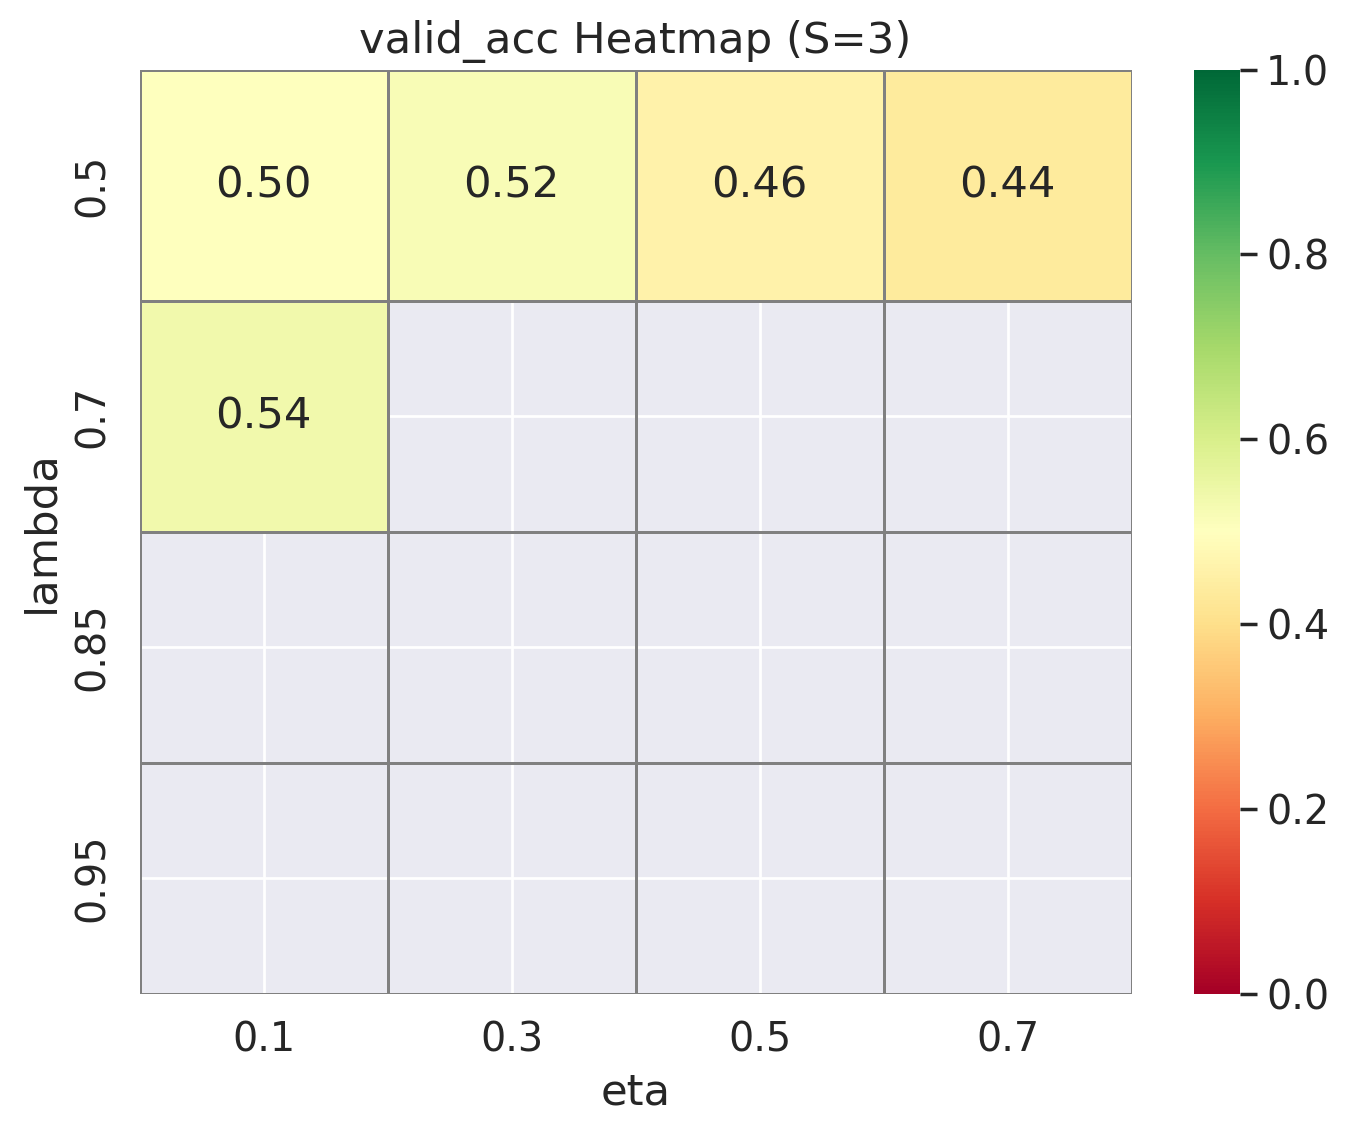
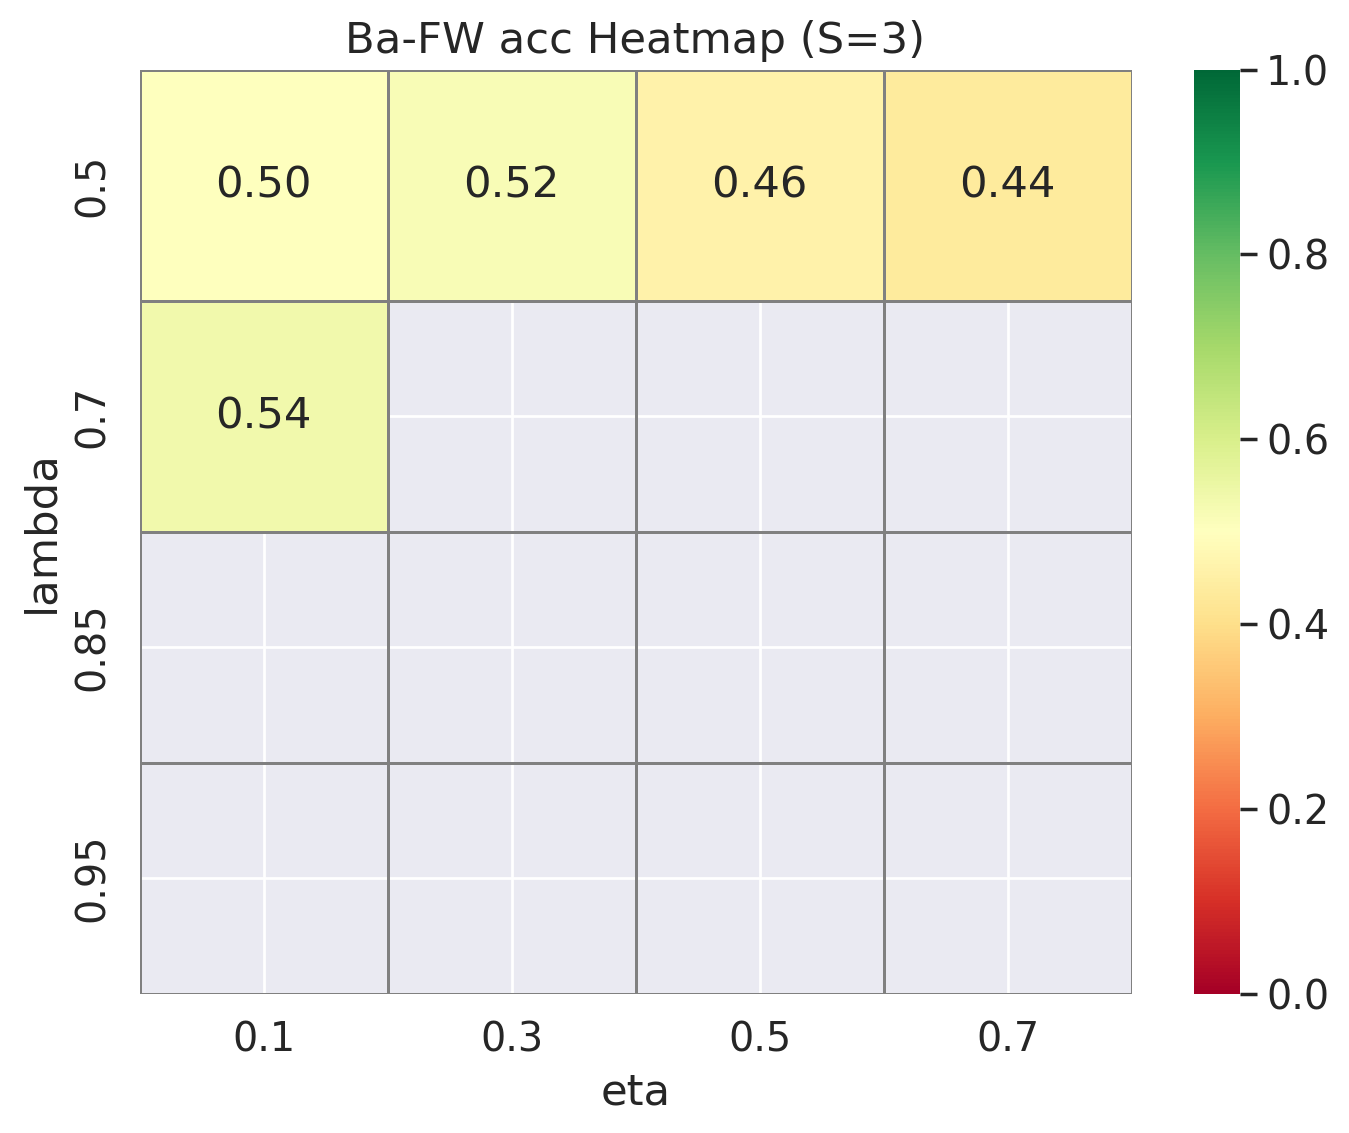
figure replace

Changed region(s): [[0.2491, 0.0, 0.685, 0.0618]]

diff --git a/KV_CLASS/fw_kv_exp_wait/final_results/figure/LN_sweep.py b/KV_CLASS/fw_kv_exp_wait/final_results/figure/LN_sweep.py
@@ -125,7 +125,7 @@ def main():
     plt.ylim(0.0, 1.0)
     plt.grid(True)
     plt.legend()
-    plt.title("LN sweep (FW vs RNN, with/without LN)")
+    plt.title("Layer normalization (FW vs RNN, with/without LN)")
 
     out_path = os.path.join(OUT_DIR, "ln_sweep_acc.png")
     plt.savefig(out_path, dpi=200, bbox_inches="tight")

diff --git a/KV_CLASS/fw_kv_exp_wait/final_results/figure/SC_sweep.py b/KV_CLASS/fw_kv_exp_wait/final_results/figure/SC_sweep.py
@@ -114,7 +114,7 @@ def process_s_dir(s_path):
         vmax=1.0
     )
 
-    plt.title(f"valid_acc Heatmap (S={S_value})")
+    plt.title(f"SC-FW acc Heatmap (S={S_value})")
     plt.xlabel("eta")
     plt.ylabel("lambda")
 

diff --git a/KV_CLASS/fw_kv_exp_wait/final_results/figure/FW_sweep.py b/KV_CLASS/fw_kv_exp_wait/final_results/figure/FW_sweep.py
@@ -115,7 +115,7 @@ def process_s_dir(s_path):
     )
 
 
-    plt.title(f"valid_acc Heatmap (S={S_value})")
+    plt.title(f"Ba-FW acc Heatmap (S={S_value})")
     plt.xlabel("eta")
     plt.ylabel("lambda")
 
